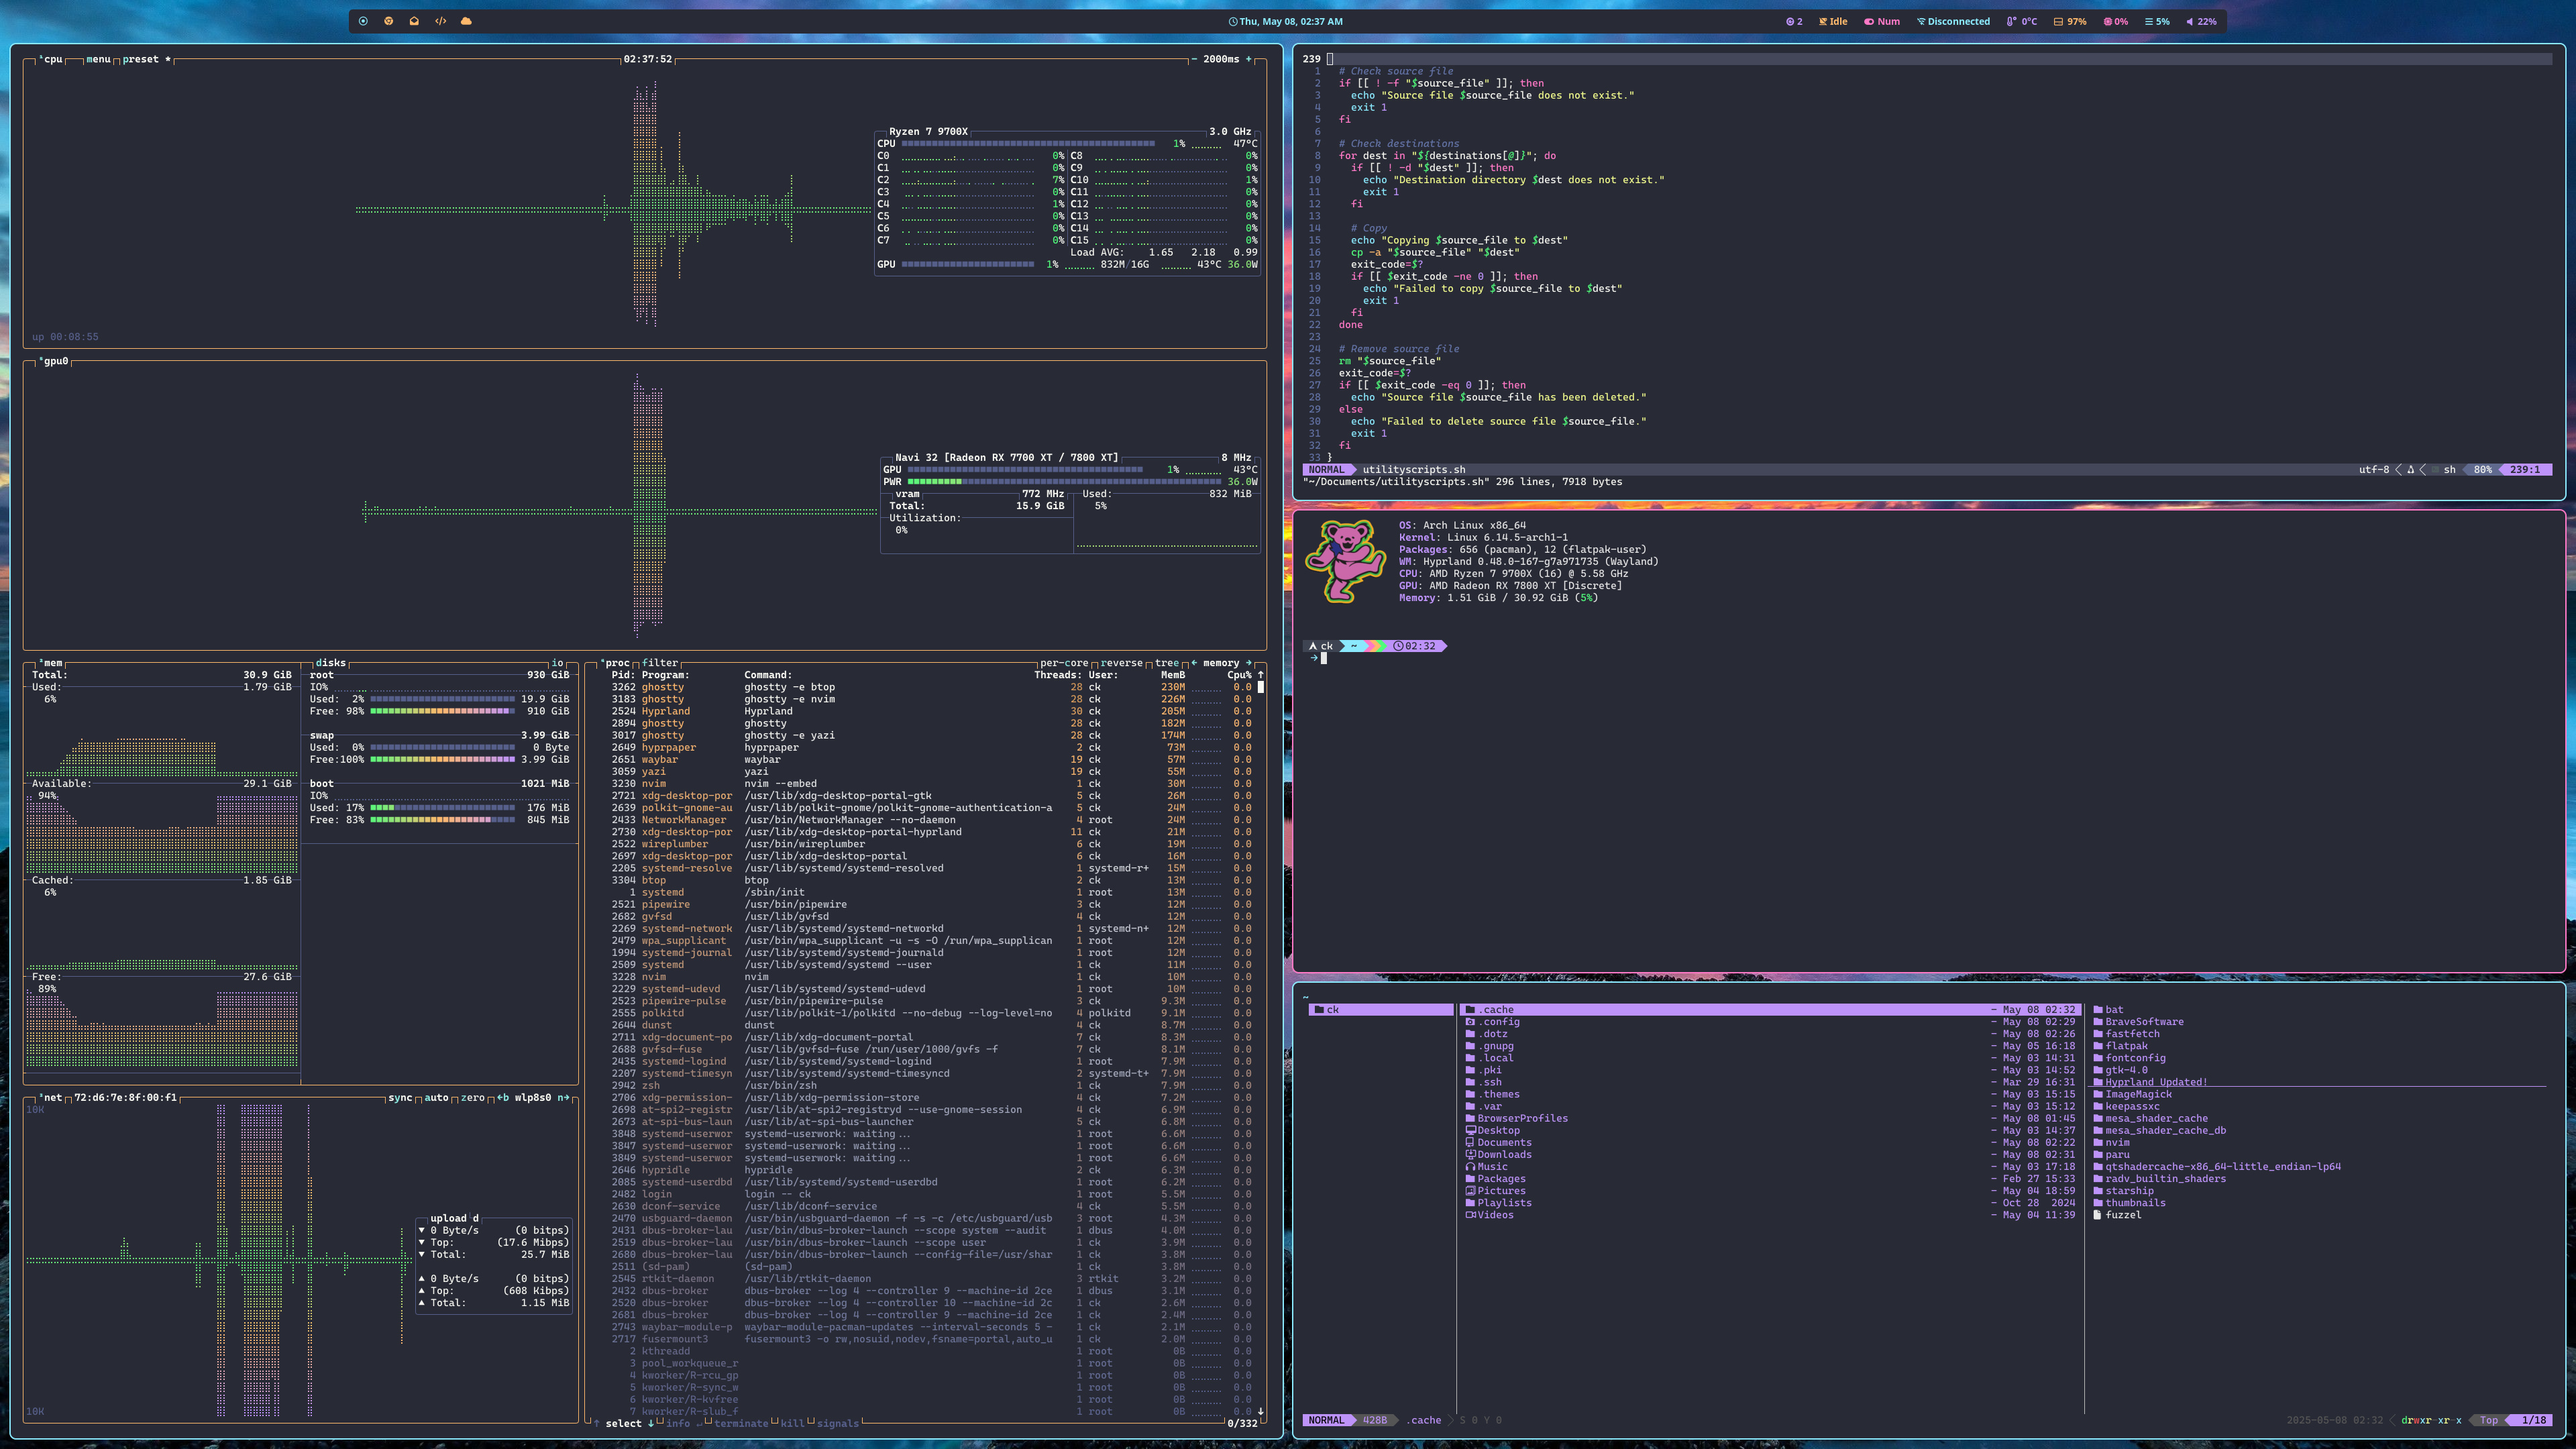
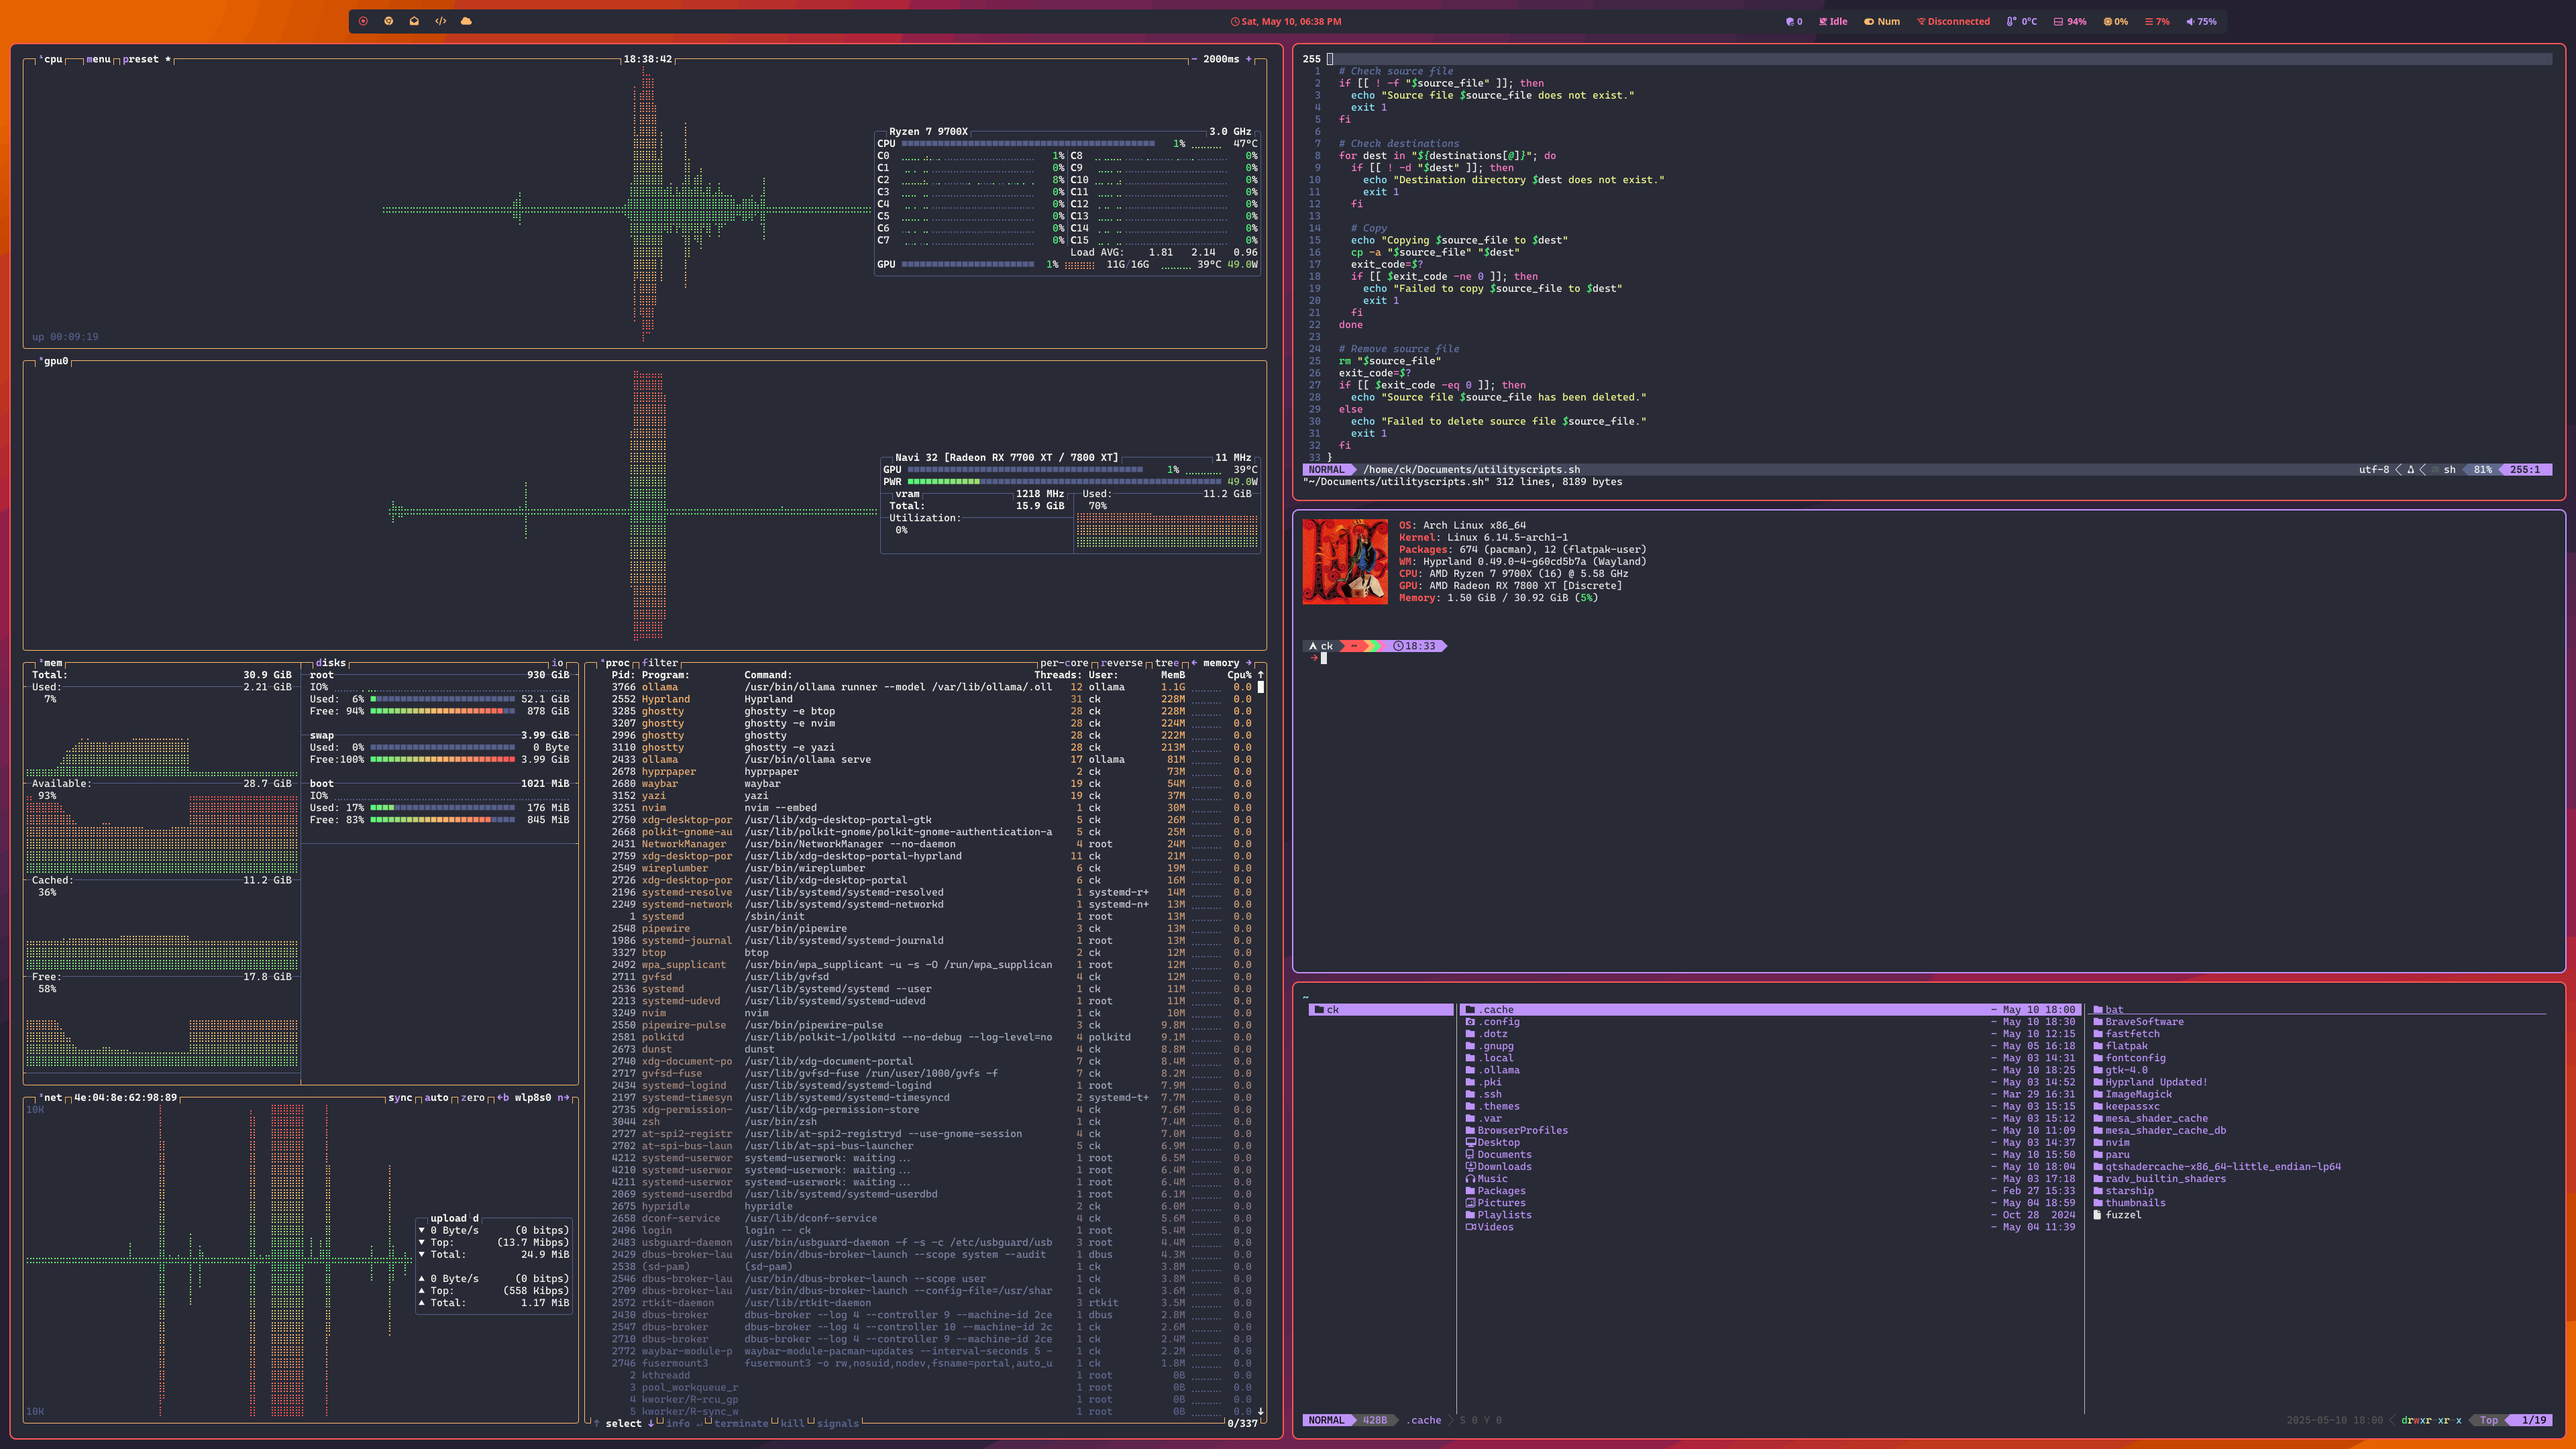
mod wallpaper & theme

diff --git a/.config/waybar/style.css b/.config/waybar/style.css
@@ -13,7 +13,7 @@ window#waybar {
 
 tooltip {
   background: #282a36;
-  border: 1.5px solid #ff79c6;
+  border: 1.5px solid #ff5555;
   color: #f8f8f2;
 }
 
@@ -29,7 +29,7 @@ tooltip label {
 }
 
 #workspaces button.active {
-  color: #8be9fd;
+  color: #ff5555;
 }
 
 #workspaces button.empty {
@@ -37,11 +37,11 @@ tooltip label {
 }
 
 #workspaces button.focused {
-  color: #8be9fd;
+  color: #ff5555;
 }
 
 #workspaces button:hover {
-  color: #8be9fd;
+  color: #ff5555;
 }
 
 #workspaces button.urgent {
@@ -64,7 +64,7 @@ tooltip label {
 }
 
 #clock {
-  color: #8be9fd;
+  color: #ff5555;
 }
 
 #custom-updates {
@@ -72,15 +72,15 @@ tooltip label {
 }
 
 #idle_inhibitor {
-  color: #ffb86c;
-}
-
-#keyboard-state {
   color: #ff79c6;
 }
 
+#keyboard-state {
+  color: #ffb86c;
+}
+
 #network {
-  color: #8be9fd;
+  color: #ff5555;
 }
 
 #temperature {
@@ -88,15 +88,15 @@ tooltip label {
 }
 
 #disk {
-  color: #ffb86c;
-}
-
-#cpu {
   color: #ff79c6;
 }
 
+#cpu {
+  color: #ffb86c;
+}
+
 #memory {
-  color: #8be9fd;
+  color: #ff5555;
 }
 
 #pulseaudio {
